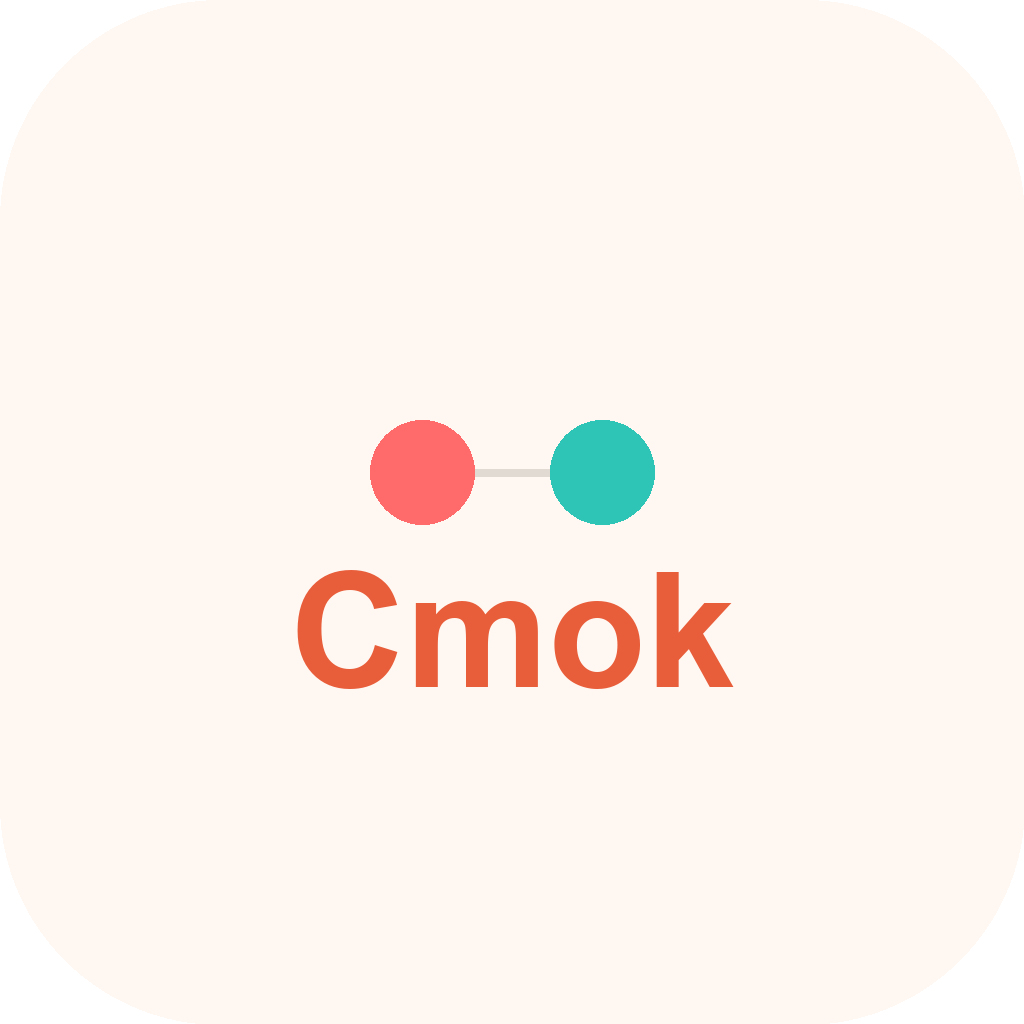
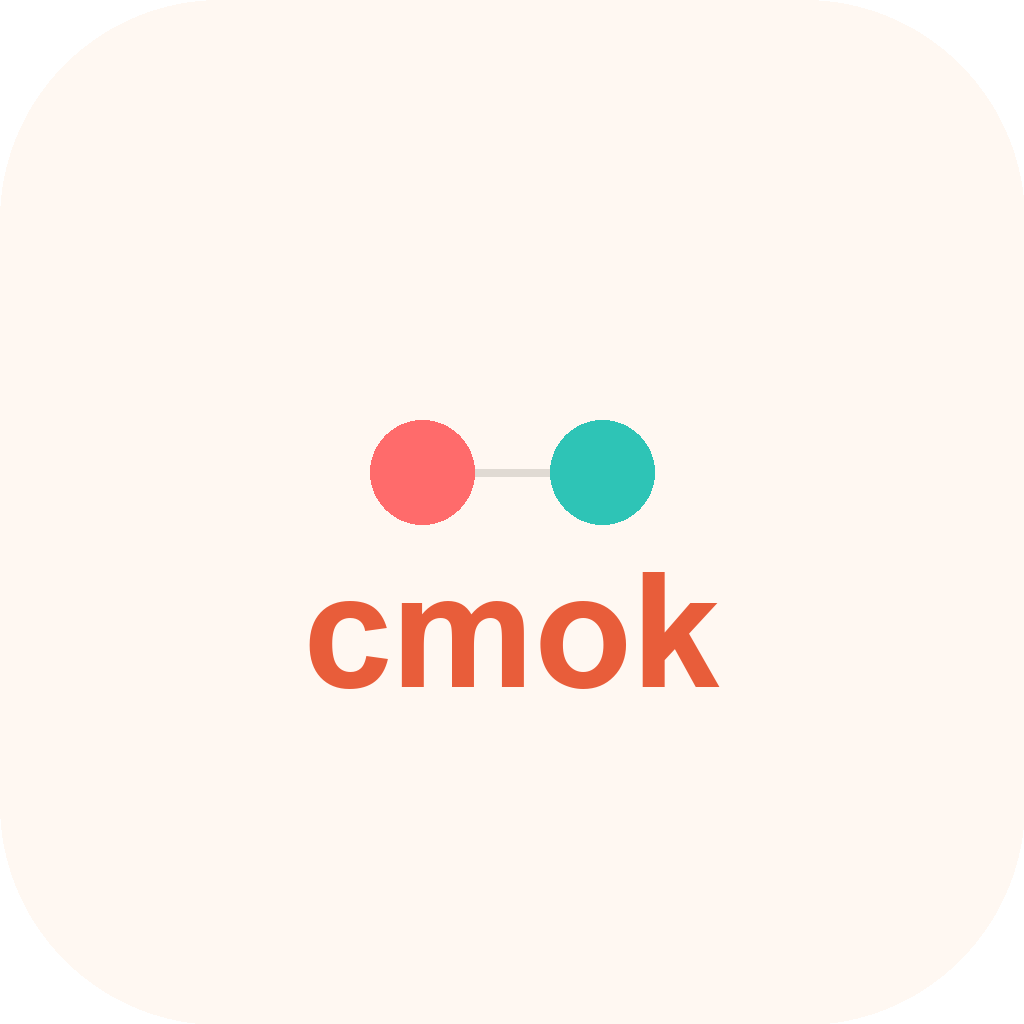
Rebrand: Cmok → cmok (lowercase everywhere)
Changed all UI text, share titles, share body text, icons,
splash screen, loading screen, screen headers, onboarding,
and invite messages from "Cmok" to "cmok".

Lowercase "cmok" feels warmer, more personal — like a whisper,
not a brand shouting. Consistent with the intimate, family
nature of the product.

12 screen files + 3 components + 1 util + 3 icon assets updated.
Zero "Cmok" remaining in source (verified by grep).

Changed region(s): [[0.2812, 0.5312, 0.7188, 0.6875]]

diff --git a/src/screens/PhoneVerifyScreen.tsx b/src/screens/PhoneVerifyScreen.tsx
@@ -72,7 +72,7 @@ export function PhoneVerifyScreen({ onBack, onVerified, selectedRole, relationLa
   const displayPhone = fullPhone.replace(/(\+48)(\d{3})(\d{3})(\d{3})/, '$1 $2 $3 $4');
 
   const helperText = phone.length === 0
-    ? 'Używamy numeru tylko do wejścia do Cmok.'
+    ? 'Używamy numeru tylko do wejścia do cmok.'
     : isValid
       ? 'To wygląda dobrze. Za chwilę wyślemy kod SMS.'
       : `Jeszcze ${9 - phone.length} cyfr.`;
@@ -213,7 +213,7 @@ export function PhoneVerifyScreen({ onBack, onVerified, selectedRole, relationLa
     <SafeAreaView style={s.container}>
       <KeyboardAvoidingView style={{ flex: 1 }} behavior={Platform.OS === 'ios' ? 'padding' : undefined} keyboardVerticalOffset={0}>
         <ScrollView contentContainerStyle={{ flexGrow: 1 }} keyboardShouldPersistTaps="handled" bounces={false}>
-          <Text style={s.miniLogo}>Cmok</Text>
+          <Text style={s.miniLogo}>cmok</Text>
 
           <Animated.View style={[s.content, { opacity: fadeAnim }]}>
             <Pressable onPress={handleBack} style={({ pressed }) => [s.backButton, pressed && { opacity: 0.6 }]} hitSlop={16}>
@@ -223,7 +223,7 @@ export function PhoneVerifyScreen({ onBack, onVerified, selectedRole, relationLa
             {phase === 'phone' ? (
               <>
                 <Text style={s.title}>Podaj numer telefonu</Text>
-                <Text style={s.subtitle}>Użyjemy go tylko do wejścia do Cmok.</Text>
+                <Text style={s.subtitle}>Użyjemy go tylko do wejścia do cmok.</Text>
 
                 <Pressable style={s.inputCard} onPress={() => phoneInputRef.current?.focus()}>
                   <View style={s.inputWrapper}>

diff --git a/src/utils/invite.ts b/src/utils/invite.ts
@@ -72,19 +72,19 @@ export async function shareInvite(params: {
   const deepLink = `cmok://join/${code}`;
 
   const message = [
-    `Dołącz do mojego kręgu w Cmok!`,
+    `Dołącz do mojego kręgu w cmok!`,
     `Twój kod: ${code}`,
     ``,
     `Pobierz apkę: ${APP_URL}`,
     ``,
-    `Masz już Cmok? Otwórz: ${deepLink}`,
+    `Masz już cmok? Otwórz: ${deepLink}`,
   ].join('\n');
 
   try {
     const result = await Share.share(
       Platform.OS === 'ios'
         ? { message }
-        : { message, title: 'Zaproszenie do Cmok' },
+        : { message, title: 'Zaproszenie do cmok' },
     );
 
     const shared = result.action === Share.sharedAction;
@@ -100,9 +100,9 @@ export async function shareInvite(params: {
  */
 export async function shareCircleInvite(): Promise<boolean> {
   const message = [
-    `Dołącz do kręgu bliskich w Cmok.`,
+    `Dołącz do kręgu bliskich w cmok.`,
     ``,
-    `Cmok to prywatna aplikacja — ktoś bliski chce dodać Cię do swojego kręgu.`,
+    `cmok to prywatna aplikacja — ktoś bliski chce dodać Cię do swojego kręgu.`,
     `Pobierz: ${APP_URL}`,
   ].join('\n');
 
@@ -110,7 +110,7 @@ export async function shareCircleInvite(): Promise<boolean> {
     const result = await Share.share(
       Platform.OS === 'ios'
         ? { message }
-        : { message, title: 'Zaproszenie do Cmok' },
+        : { message, title: 'Zaproszenie do cmok' },
     );
 
     const shared = result.action === Share.sharedAction;

diff --git a/src/screens/PhoneAuthScreen.tsx b/src/screens/PhoneAuthScreen.tsx
@@ -22,7 +22,7 @@ export function PhoneAuthScreen({ onBack, onCodeSent, selectedRole, relationLabe
   const isValid = number.replace(/\D/g, '').length === 9;
   const displayNumber = number.replace(/(\d{3})(?=\d)/g, '$1 ').trim();
   const helperText = number.length === 0
-    ? 'Używamy numeru tylko do wejścia do Cmok.'
+    ? 'Używamy numeru tylko do wejścia do cmok.'
     : isValid
       ? 'To wygląda dobrze. Za chwilę wyślemy kod SMS.'
       : `Jeszcze ${9 - number.length} cyfr.`;
@@ -53,7 +53,7 @@ export function PhoneAuthScreen({ onBack, onCodeSent, selectedRole, relationLabe
           keyboardShouldPersistTaps="handled"
           bounces={false}
         >
-          <Text style={styles.miniLogo}>Cmok</Text>
+          <Text style={styles.miniLogo}>cmok</Text>
 
           <View style={styles.content}>
             <Pressable onPress={onBack} style={({ pressed }) => [styles.backButton, pressed && { opacity: 0.6 }]} hitSlop={16}>
@@ -61,7 +61,7 @@ export function PhoneAuthScreen({ onBack, onCodeSent, selectedRole, relationLabe
             </Pressable>
 
             <Text style={styles.title}>Podaj numer telefonu</Text>
-            <Text style={styles.subtitle}>Użyjemy go tylko do wejścia do Cmok.</Text>
+            <Text style={styles.subtitle}>Użyjemy go tylko do wejścia do cmok.</Text>
 
             <View style={styles.inputCard}>
               <View style={styles.inputWrapper}>

diff --git a/src/screens/IntentScreen.tsx b/src/screens/IntentScreen.tsx
@@ -34,7 +34,7 @@ export function IntentScreen({ onSelect, onBack, simplified = false }: IntentScr
   if (simplified) {
     return (
       <SafeAreaView style={styles.container}>
-        <Text style={styles.miniLogo}>Cmok</Text>
+        <Text style={styles.miniLogo}>cmok</Text>
 
         <View style={styles.content}>
           <Pressable onPress={onBack} style={({ pressed }) => [styles.backButton, pressed && { opacity: 0.6 }]} hitSlop={16}>
@@ -43,7 +43,7 @@ export function IntentScreen({ onSelect, onBack, simplified = false }: IntentScr
 
           <Text style={styles.title}>Jak zaczynasz?</Text>
           <Text style={styles.simplifiedSubtitle}>
-            Cmok łączy dwie bliskie osoby w codzienny rytuał kontaktu.
+            cmok łączy dwie bliskie osoby w codzienny rytuał kontaktu.
           </Text>
 
           <Pressable
@@ -66,7 +66,7 @@ export function IntentScreen({ onSelect, onBack, simplified = false }: IntentScr
 
   return (
     <SafeAreaView style={styles.container}>
-      <Text style={styles.miniLogo}>Cmok</Text>
+      <Text style={styles.miniLogo}>cmok</Text>
       <View style={styles.content}>
         <Pressable onPress={onBack} style={({ pressed }) => [styles.backButton, pressed && { opacity: 0.6 }]} hitSlop={16}>
           <Text style={styles.backText}>← Wróć</Text>

diff --git a/src/screens/SignalerHomeScreen.tsx b/src/screens/SignalerHomeScreen.tsx
@@ -288,10 +288,10 @@ export function SignalerHomeScreen({ preview = null }: { preview?: SignalerHomeP
     const streakText = currentStreak === 7 ? 'tydzień' : currentStreak === 14 ? '2 tygodnie' : currentStreak === 21 ? '3 tygodnie' : currentStreak === 30 ? 'miesiąc' : `${currentStreak} dni`;
     const displayName = primaryName || null;
     const msg = displayName
-      ? `Od ${streakText} codziennie daję ${displayName} znak, że jest OK. Bez dzwonienia, bez SMS-ów. Jeden tap i obie strony mają spokój.\n\nCmok, darmowa apka:\nhttps://cmok.app/pobierz`
+      ? `Od ${streakText} codziennie daję ${displayName} znak, że jest OK. Bez dzwonienia, bez SMS-ów. Jeden tap i obie strony mają spokój.\n\ncmok, darmowa apka:\nhttps://cmok.app/pobierz`
       : `Od ${streakText} codziennie daję bliskiej osobie znak, że jest OK. Jeden tap i spokój.\n\nhttps://cmok.app/pobierz`;
     try {
-      await Share.share(Platform.OS === 'ios' ? { message: msg } : { message: msg, title: 'Cmok' });
+      await Share.share(Platform.OS === 'ios' ? { message: msg } : { message: msg, title: 'cmok' });
     } catch { /* cancelled */ }
   }, [currentStreak, primaryName]);
 

diff --git a/src/screens/SettingsScreen.tsx b/src/screens/SettingsScreen.tsx
@@ -23,9 +23,9 @@ export function SettingsScreen() {
   const circleCount = contacts.length;
 
   const handleInviteAnother = async () => {
-    const msg = 'Dołącz do Cmok — codzienny znak od bliskiej osoby. Mniej martwienia się, więcej spokoju.\n\nhttps://cmok.app/pobierz';
+    const msg = 'Dołącz do cmok — codzienny znak od bliskiej osoby. Mniej martwienia się, więcej spokoju.\n\nhttps://cmok.app/pobierz';
     try {
-      await Share.share(Platform.OS === 'ios' ? { message: msg } : { message: msg, title: 'Cmok' });
+      await Share.share(Platform.OS === 'ios' ? { message: msg } : { message: msg, title: 'cmok' });
     } catch { /* cancelled */ }
   };
 
@@ -125,7 +125,7 @@ export function SettingsScreen() {
         {/* ─── Account ─── */}
         <View style={styles.card}>
           <Text style={styles.cardLabel}>Konto</Text>
-          <Text style={styles.cardValue}>{profile?.name || 'Cmok'}</Text>
+          <Text style={styles.cardValue}>{profile?.name || 'cmok'}</Text>
           {profile?.phone ? <Text style={styles.cardDetail}>{profile.phone}</Text> : null}
         </View>
 

diff --git a/src/screens/LocationConsentScreen.tsx b/src/screens/LocationConsentScreen.tsx
@@ -16,7 +16,7 @@ export function LocationConsentScreen({ onContinue, onBack }: LocationConsentScr
   return (
     <SafeAreaView style={s.container}>
       <View style={s.top}>
-        <Text style={s.miniLogo}>Cmok</Text>
+        <Text style={s.miniLogo}>cmok</Text>
 
         <Pressable onPress={onBack} style={({ pressed }) => [s.backButton, pressed && { opacity: 0.6 }]} hitSlop={16}>
           <Text style={s.backText}>← Wróć</Text>
@@ -24,7 +24,7 @@ export function LocationConsentScreen({ onContinue, onBack }: LocationConsentScr
 
         <Text style={s.title}>Lokalizacja</Text>
         <Text style={s.subtitle}>
-          Jeśli kiedyś będziesz chcieć dać znać, że coś się dzieje, Cmok może dołączyć Twoją lokalizację — żeby bliscy wiedzieli, gdzie jesteś.
+          Jeśli kiedyś będziesz chcieć dać znać, że coś się dzieje, cmok może dołączyć Twoją lokalizację — żeby bliscy wiedzieli, gdzie jesteś.
         </Text>
 
         <View style={s.options}>

diff --git a/src/screens/TrustedContactsScreen.tsx b/src/screens/TrustedContactsScreen.tsx
@@ -79,7 +79,7 @@ export function TrustedContactsScreen() {
                 keyboardType="phone-pad"
                 style={styles.input}
               />
-              <Text style={styles.helperText}>Ta osoba musi mieć konto w Cmok.</Text>
+              <Text style={styles.helperText}>Ta osoba musi mieć konto w cmok.</Text>
               <Pressable
                 onPress={handleAdd}
                 disabled={!phone.trim() || saving}
@@ -97,7 +97,7 @@ export function TrustedContactsScreen() {
               onPress={() => shareCircleInvite()}
               style={({ pressed }) => [styles.shareLink, pressed && { opacity: 0.6 }]}
             >
-              <Text style={styles.shareLinkText}>Zaproś kogoś do Cmok</Text>
+              <Text style={styles.shareLinkText}>Zaproś kogoś do cmok</Text>
             </Pressable>
 
             <View style={styles.listSection}>

diff --git a/src/components/MilestoneCelebration.tsx b/src/components/MilestoneCelebration.tsx
@@ -47,9 +47,9 @@ export function MilestoneCelebration({ visible, streak, recipientName, onDismiss
 
   const handleShare = async () => {
     const name = recipientName || 'bliska osoba';
-    const msg = `Od ${streak} dni codziennie daję ${name} znak, że u mnie OK. Bez dzwonienia, bez stresu. Jeden tap i spokój.\n\nCmok, darmowa apka:\nhttps://cmok.app/pobierz`;
+    const msg = `Od ${streak} dni codziennie daję ${name} znak, że u mnie OK. Bez dzwonienia, bez stresu. Jeden tap i spokój.\n\ncmok, darmowa apka:\nhttps://cmok.app/pobierz`;
     try {
-      await Share.share(Platform.OS === 'ios' ? { message: msg } : { message: msg, title: 'Cmok' });
+      await Share.share(Platform.OS === 'ios' ? { message: msg } : { message: msg, title: 'cmok' });
     } catch { /* cancelled */ }
   };
 

diff --git a/src/screens/RecipientHomeScreen.tsx b/src/screens/RecipientHomeScreen.tsx
@@ -393,9 +393,9 @@ export function RecipientHomeScreen({ preview = null }: { preview?: RecipientHom
   };
 
   const handleShareInvite = async () => {
-    const msg = 'Ktoś bliski mieszka sam? Codziennie dostaję od niego znak, że jest OK. Zero dzwonienia, zero stresu. Jeden tap.\n\nCmok, darmowa apka:\nhttps://cmok.app/pobierz';
+    const msg = 'Ktoś bliski mieszka sam? Codziennie dostaję od niego znak, że jest OK. Zero dzwonienia, zero stresu. Jeden tap.\n\ncmok, darmowa apka:\nhttps://cmok.app/pobierz';
     try {
-      await Share.share(Platform.OS === 'ios' ? { message: msg } : { message: msg, title: 'Cmok' });
+      await Share.share(Platform.OS === 'ios' ? { message: msg } : { message: msg, title: 'cmok' });
     } catch { /* cancelled */ }
   };
 

diff --git a/src/screens/JoinScreen.tsx b/src/screens/JoinScreen.tsx
@@ -159,7 +159,7 @@ export function JoinScreen({
   if (needsAuth) {
     return (
       <SafeAreaView style={s.container}>
-        <Text style={s.miniLogo}>Cmok</Text>
+        <Text style={s.miniLogo}>cmok</Text>
         <View style={s.content}>
           <Text style={s.title}>
             {inviterName ? `${inviterName} Cię zaprasza` : 'Dołącz do kręgu'}
@@ -185,7 +185,7 @@ export function JoinScreen({
 
   return (
     <SafeAreaView style={s.container}>
-      <Text style={s.miniLogo}>Cmok</Text>
+      <Text style={s.miniLogo}>cmok</Text>
       <View style={s.content}>
         <Pressable onPress={onBack} style={({ pressed }) => [s.backButton, pressed && { opacity: 0.6 }]} hitSlop={16}>
           <Text style={s.backText}>← Wróć</Text>

diff --git a/src/screens/WaitingForConnectionScreen.tsx b/src/screens/WaitingForConnectionScreen.tsx
@@ -56,7 +56,7 @@ export function WaitingForConnectionScreen() {
   return (
     <SafeAreaView style={styles.container}>
       <View style={styles.topBar}>
-        <Text style={styles.miniLogo}>Cmok</Text>
+        <Text style={styles.miniLogo}>cmok</Text>
         <Pressable onPress={() => router.replace('/onboarding')} style={({ pressed }) => [styles.backButton, pressed && { opacity: 0.6 }]} hitSlop={16}>
           <Text style={styles.backText}>← Wróć</Text>
         </Pressable>
